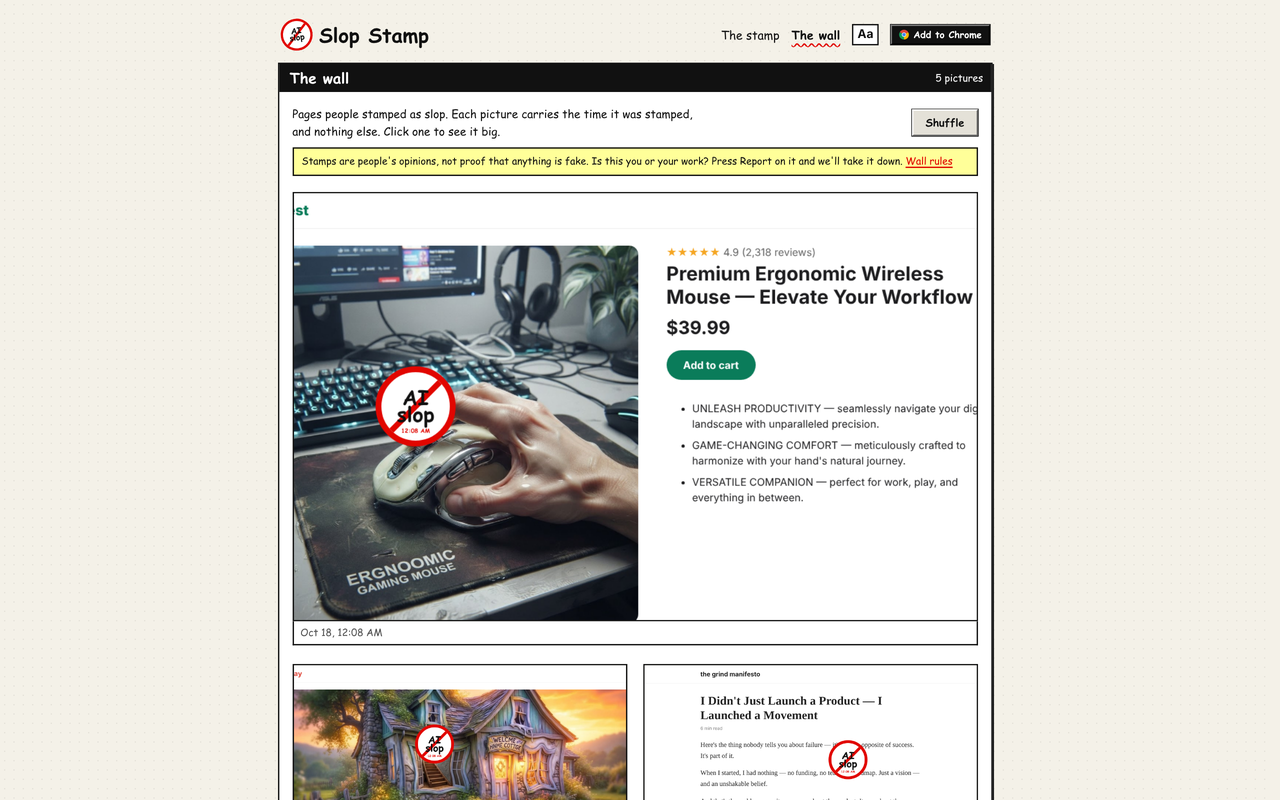
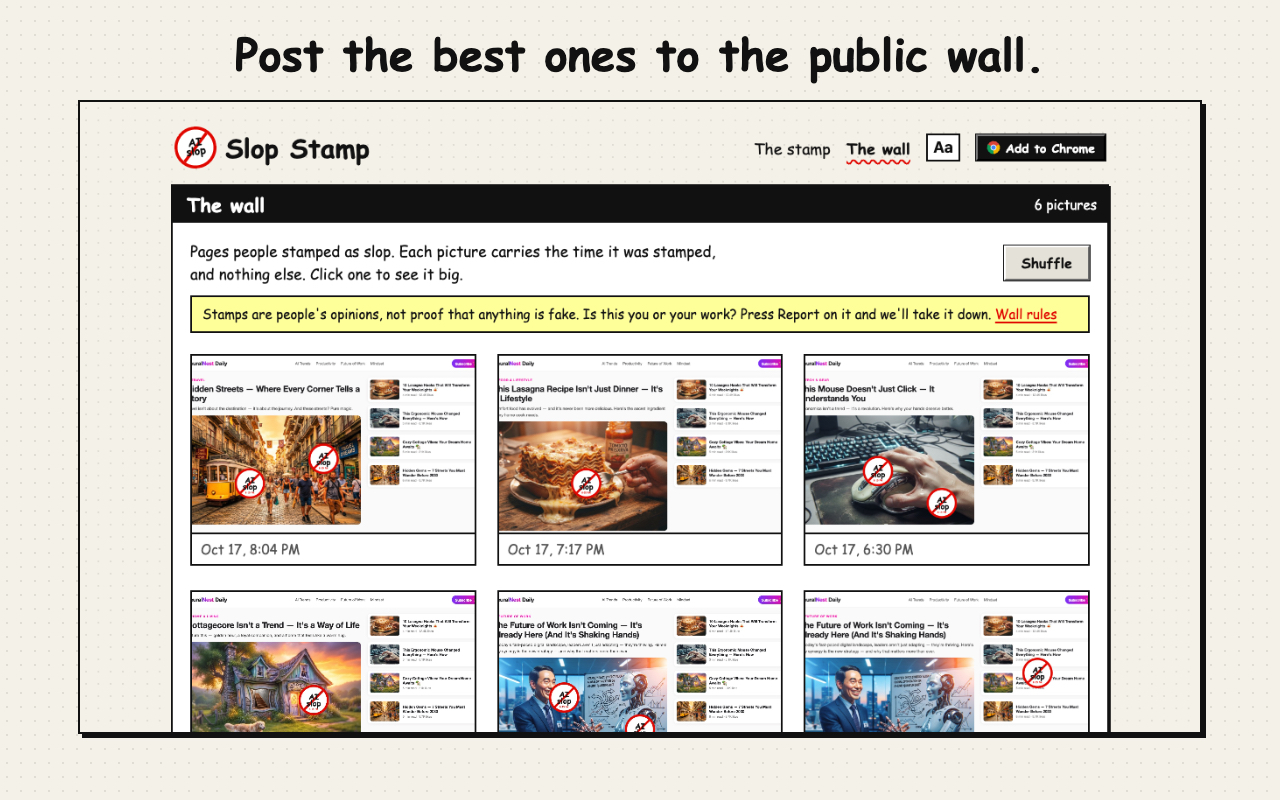
Combine both store image sets into one final set of five screenshots
Captioned shots for stamping, the gallery, the wall and the home page, plus
the cover-up step from the other set, framed the same way. The icon and both
promo tiles are the stamp-on-slop versions.

diff --git a/store/LISTING.md b/store/LISTING.md
@@ -42,7 +42,7 @@ No accounts. No names. A picture and a time.
 
 **Images** (all in `store/images/`):
 - Store icon (128×128): `store-icon-128.png`. The stamp at 96×96 with 16px clear space, per the icon guidelines.
-- Screenshots (1280×800, no alpha), in this order: `screenshot-1-stamp.png`, `screenshot-2-gallery.png`, `screenshot-3-cover-up.png`, `screenshot-4-wall.png`.
+- Screenshots (1280×800, no alpha), in this order: `screenshot-1-stamp.png`, `screenshot-2-gallery.png`, `screenshot-3-cover-up.png`, `screenshot-4-wall.png`, `screenshot-5-home.png`. Each has a one-line caption in Comic Sans over the real UI.
 - Small promo tile (440×280): `small-promo-440x280.png`.
 - Marquee promo tile (1400×560): `marquee-promo-1400x560.png`.
 
